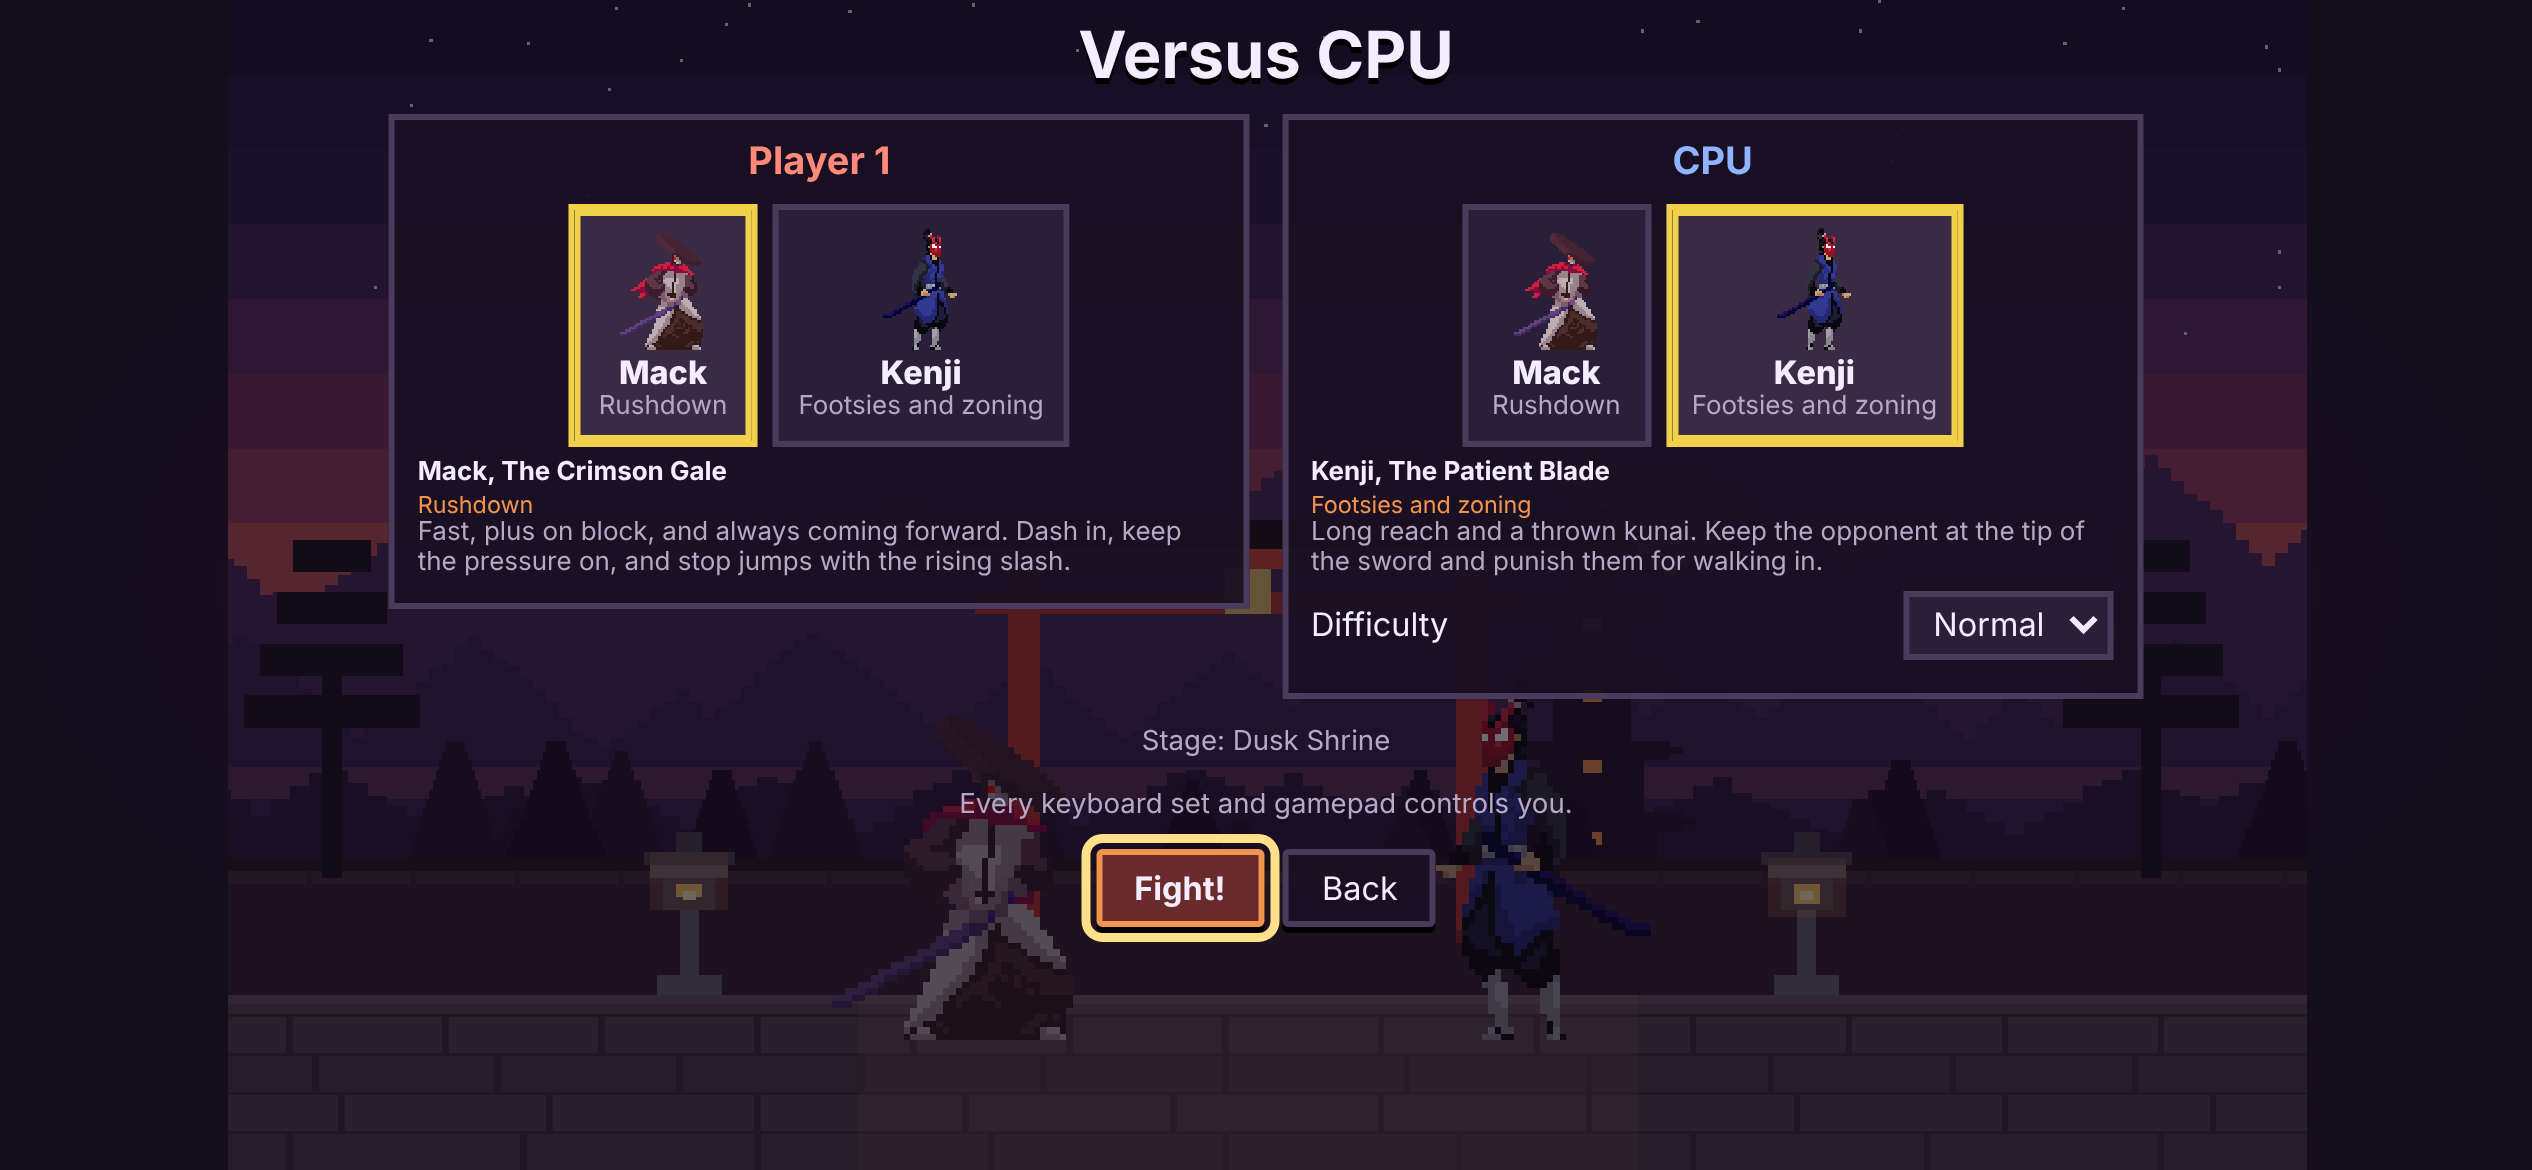
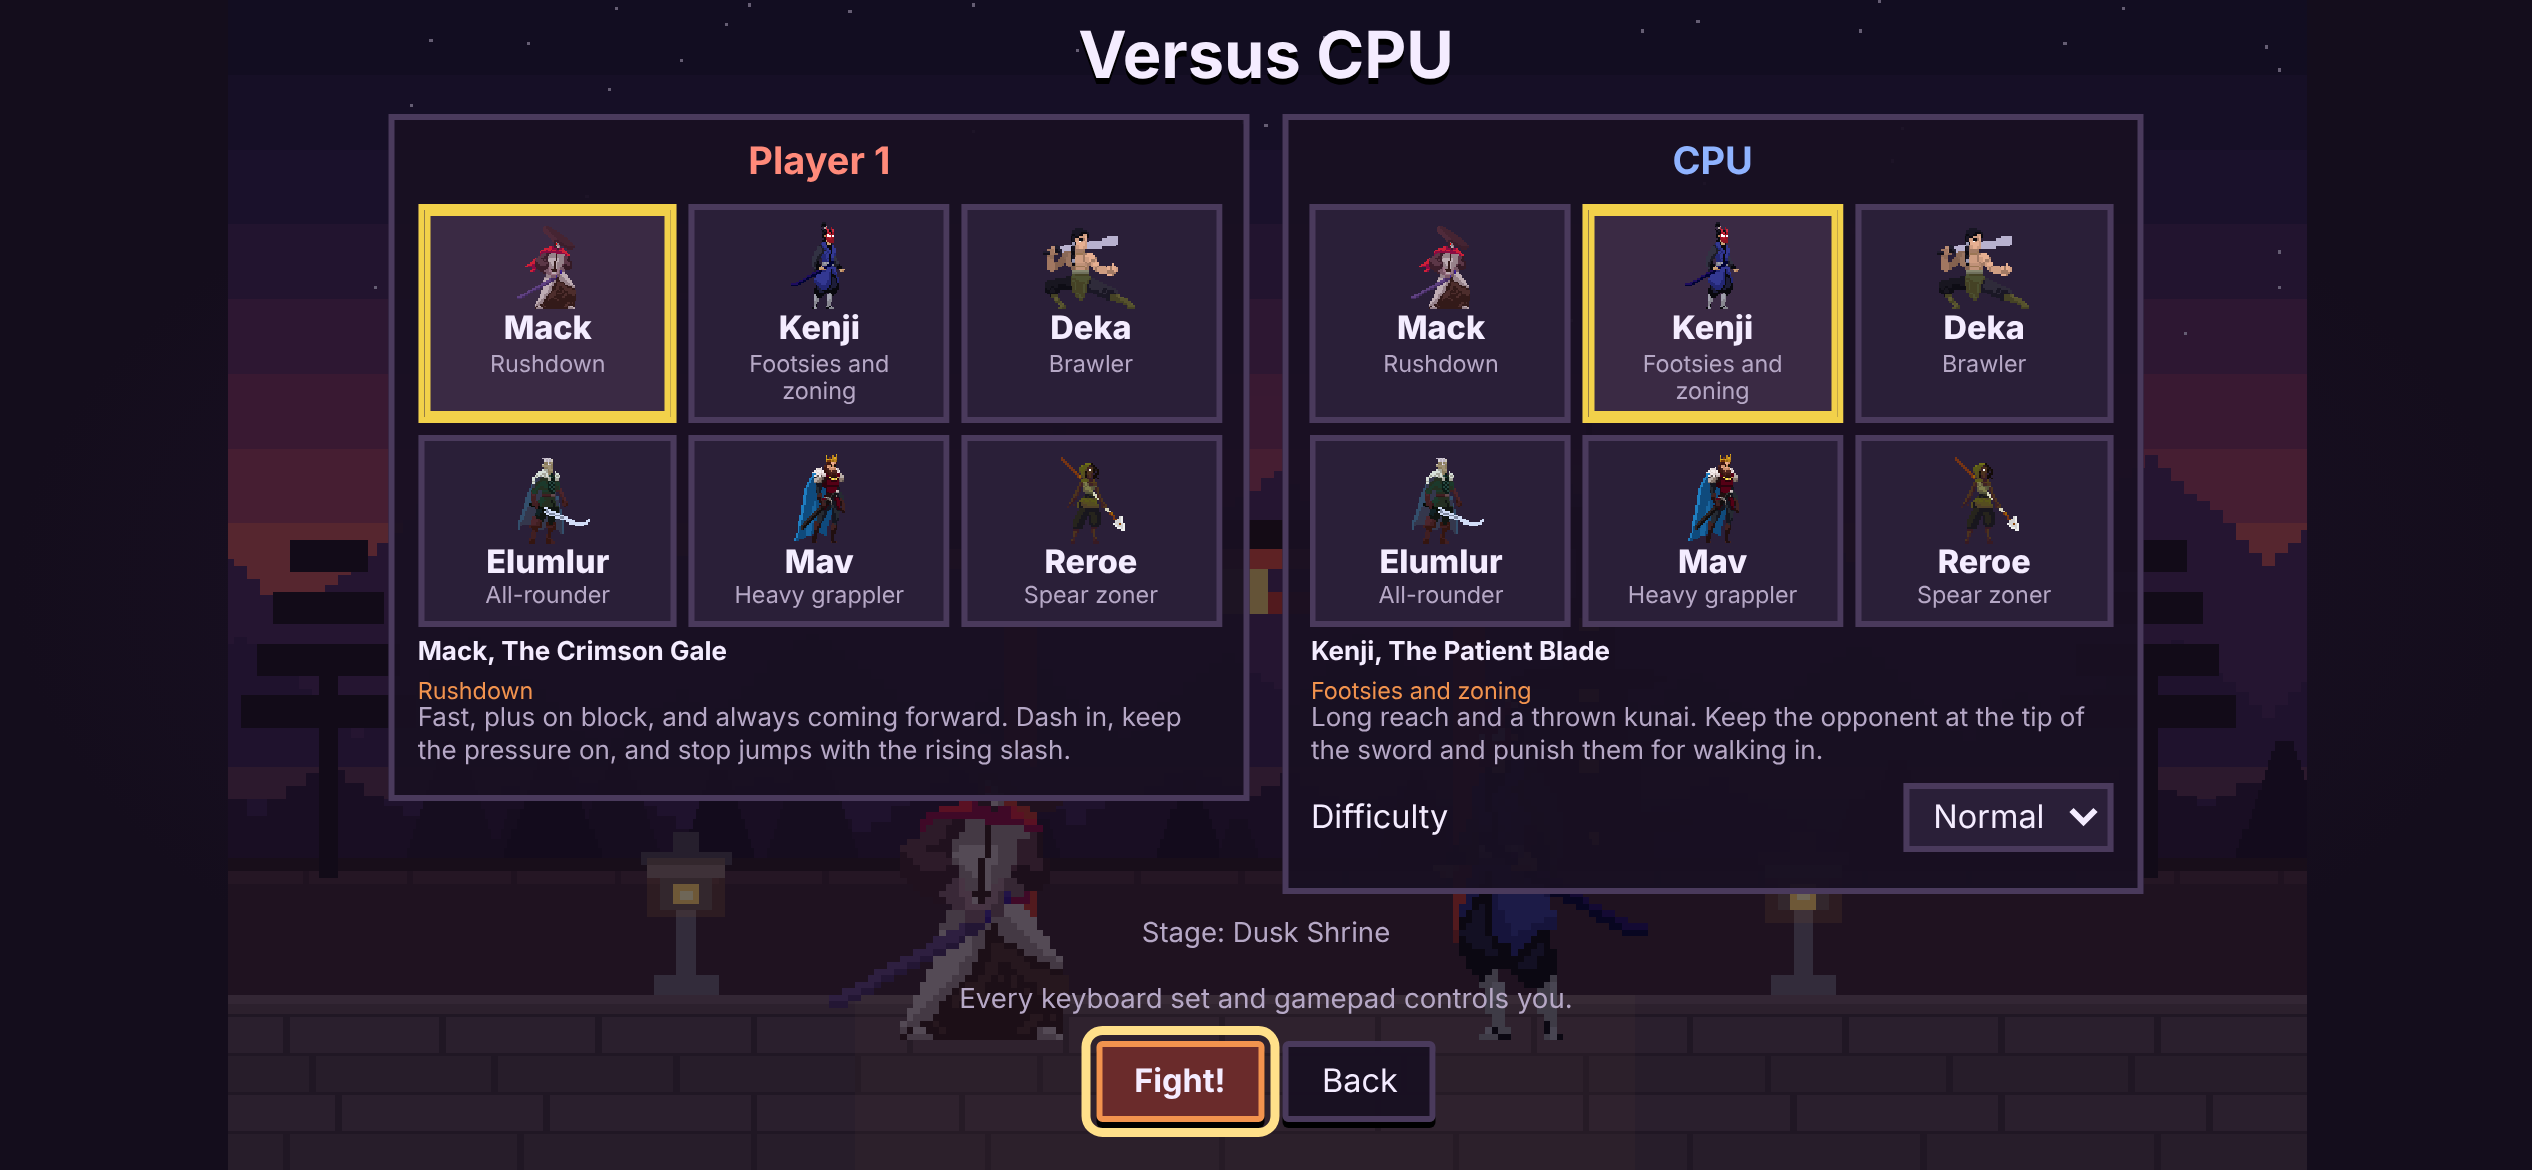
docs: six fighters in the README, frame data and ASSETS.md; select screen fits
- README: the fighters table covers all six; the credits no longer say
  four packs are for characters still being added.
- docs/FRAME-DATA.md: regenerated tables for every character; command
  grabs show no block advantage, like throws (the table tool too).
- ASSETS.md: how `offsets` and `frameShift` correct the new packs' art
  without editing it.
- The select screen's cards are more compact so six fit at 1280×720 and
  on phones without clipping the title or the Fight button.
- Screenshots regenerated.

Claude-Session: https://claude.ai/code/session_0133ci3TEjBPLBP2vctkLhz4

diff --git a/src/style.css b/src/style.css
@@ -140,14 +140,14 @@ button:focus-visible, select:focus-visible, input:focus-visible, .btn:focus {
   align-items: center;
   background: var(--panel-2);
   border: 2px solid var(--line);
-  padding: 0.3em 0.6em 0.5em;
+  padding: 0.2em 0.5em 0.35em;
   cursor: pointer;
 }
 .card[aria-checked="true"] { border-color: var(--accent-2); background: #3a2a44; box-shadow: 0 0 0 2px var(--accent-2) inset; }
-.portrait { width: 3.8em; height: 3.8em; image-rendering: pixelated; }
-.card-name { font-weight: 800; }
-.card-style { font-size: 0.72em; color: var(--muted); }
-.char-info { font-size: 0.9em; color: var(--muted); min-height: 4.5em; margin: 0.5em 0 0; text-align: left; }
+.portrait { width: 3.2em; height: 3.2em; image-rendering: pixelated; }
+.card-name { font-weight: 800; line-height: 1.15; }
+.card-style { font-size: 0.72em; line-height: 1.2; color: var(--muted); }
+.char-info { font-size: 0.85em; line-height: 1.3; color: var(--muted); min-height: 4.5em; margin: 0.5em 0 0; text-align: left; }
 .char-info strong { display: block; color: var(--ink); }
 .char-info .style { display: block; color: var(--accent); font-size: 0.9em; }
 .row { display: flex; align-items: center; gap: 0.6em; justify-content: space-between; margin: 0.35em 0; text-align: left; }
@@ -311,7 +311,7 @@ select { font: inherit; background: var(--panel-2); color: var(--ink); border: 2
 @media (max-width: 700px), (max-height: 420px) {
   .select-grid { grid-template-columns: 1fr 1fr; }
   .vs-mark { display: none; }
-  .portrait { width: 4.2em; height: 4.2em; }
+  .portrait { width: 3em; height: 3em; }
   .char-info { min-height: 0; font-size: 0.8em; }
   .settings, .training-panel { grid-template-columns: 1fr; }
   .screen { justify-content: flex-start; gap: 0.5em; padding: 0.6em; }

diff --git a/src/game/data/characters/reroe.js b/src/game/data/characters/reroe.js
@@ -1,7 +1,7 @@
 /**
  * Reroe, the spear zoner: the longest pokes in the game, a thrown spear,
  * a retreating sweep that pokes while backing away, and a volley of spears
- * for a super. Fast on her feet but the least health: keep the opponent at
+ * for a super. Fast on her feet but tied for the least health: keep the opponent at
  * the end of the spear. Sprites: "Huntress" by Luiz Melo (CC0), drawn
  * facing right; the thrown spear is the pack's own spear art.
  *

diff --git a/docs/FRAME-DATA.md b/docs/FRAME-DATA.md
@@ -244,7 +244,7 @@ them from there.
 trust the formula: after every hit or block, it counts the frames until
 each fighter can act and reports the difference ("P1 5M: +2 on hit").
 [tests/frameData.test.js](../tests/frameData.test.js) does the same for
-every grounded move of both characters, on hit and on block, in the real
+every grounded move of every character, on hit and on block, in the real
 simulation, and fails if measured and derived differ by a single frame.
 Writing that test found two mistakes in the first version of the formula
 (see [section 12](#12-how-the-numbers-are-kept-honest)).
@@ -484,7 +484,8 @@ Startup is the first active frame; advantage assumes the move connects on
 its first active frame (for a multi-hit move, its last hit on that hit's
 first frame). Air attacks' advantage depends on how high they hit, and a
 projectile's on how far it travelled, so they're marked "—". Hit-stop is
-not counted (it freezes both fighters equally).
+not counted (it freezes both fighters equally). Command grabs, like
+throws, can't be blocked, so they have no block advantage.
 
 #### Mack (Rushdown)
 
@@ -531,6 +532,98 @@ not counted (it freezes both fighters equally).
 | `[4]6+M` | Iai Rush (M) | 10 | 4 | 20 | -1 | -7 | 90 | mid |
 | `[4]6+H` | Iai Rush (H) | 11 | 4 | 20 | KD +22 | -7 | 100 | mid |
 | `236236+H` | Tsukiotoshi: Falling Moon | 10 | — | 34 | — | — | 280 | mid |
+
+#### Deka (Brawler)
+
+| Input | Move | Startup | Active | Recovery | On hit | On block | Damage | Guard |
+| --- | --- | --- | --- | --- | --- | --- | --- | --- |
+| `5L` | Short Arc | 6 | 2 | 10 | +3 | ±0 | 35 | mid |
+| `5M` | Crescent Cut | 9 | 3 | 15 | +1 | -3 | 65 | mid |
+| `5H` | Moon Splitter | 13 | 4 | 22 | -3 | -9 | 105 | mid |
+| `2L` | Shin Cut | 6 | 2 | 10 | +2 | -1 | 30 | low |
+| `2M` | Low Crescent | 9 | 3 | 16 | -1 | -5 | 55 | low |
+| `2H` | Rising Moon | 10 | 4 | 25 | KD +49 | -14 | 80 | mid |
+| `6M` | Crashing Moon | 19 | 3 | 14 | +4 | -2 | 75 | high |
+| `j.L` | Air Arc | 5 | 4 | 10 | — | — | 40 | high |
+| `j.M` | Diving Crescent | 7 | 5 | 12 | — | — | 60 | high |
+| `j.H` | Falling Moon | 10 | 4 | 16 | — | — | 90 | high |
+| `L+M (4L+M: back)` | Headbutt Toss | 5 | 2 | 22 | KD +47 | — | 120 | throw |
+| `236+L` | Crescent Rush (L) | 13 | 4 | 19 | -1 | -8 | 85 | mid |
+| `236+M` | Crescent Rush (M) | 13 | 4 | 19 | -1 | -8 | 95 | mid |
+| `236+H` | Crescent Rush (H) | 13 | 4 | 19 | KD +23 | -8 | 110 | mid |
+| `623+L` | Rising Crescent (L) | 6 | 6 | 25 | KD +43 | -14 | 95 | mid |
+| `623+M` | Rising Crescent (M) | 6 | 8 | 27 | KD +41 | -18 | 115 | mid |
+| `623+H` | Rising Crescent (H) | 7 | 8 | 29 | KD +43 | -17 | 140 | mid |
+| `236236+H` | Thousand Crescents | 7 | 16 | 31 | KD +43 | -18 | 325 | mid |
+
+#### Elumlur (All-rounder)
+
+| Input | Move | Startup | Active | Recovery | On hit | On block | Damage | Guard |
+| --- | --- | --- | --- | --- | --- | --- | --- | --- |
+| `5L` | Spark Cut | 5 | 2 | 10 | +3 | ±0 | 32 | mid |
+| `5M` | Arc Slash | 9 | 3 | 15 | +1 | -3 | 64 | mid |
+| `5H` | Cyclone Edge | 12 | 4 | 21 | -2 | -8 | 95 | mid |
+| `2L` | Low Spark | 5 | 2 | 10 | +2 | -1 | 27 | low |
+| `2M` | Ground Current | 9 | 3 | 16 | -1 | -5 | 50 | low |
+| `2H` | Updraft | 9 | 4 | 24 | KD +50 | -13 | 72 | mid |
+| `6M` | Thunderclap | 18 | 3 | 14 | +4 | -2 | 62 | high |
+| `j.L` | Air Spark | 5 | 4 | 10 | — | — | 35 | high |
+| `j.M` | Gale Turn | 7 | 5 | 12 | — | — | 55 | high |
+| `j.H` | Falling Storm | 10 | 4 | 16 | — | — | 82 | high |
+| `L+M (4L+M: back)` | Storm Grip | 5 | 2 | 22 | KD +47 | — | 110 | throw |
+| `236+L` | Storm Wave (L) | 14 | — | 26 | — | — | 70 | mid |
+| `236+M` | Storm Wave (M) | 14 | — | 26 | — | — | 70 | mid |
+| `236+H` | Storm Wave (H) | 14 | — | 26 | — | — | 70 | mid |
+| `623+L` | Thunder Rise (L) | 5 | 6 | 24 | KD +44 | -13 | 85 | mid |
+| `623+M` | Thunder Rise (M) | 5 | 8 | 26 | KD +42 | -17 | 105 | mid |
+| `623+H` | Thunder Rise (H) | 6 | 8 | 28 | KD +44 | -16 | 125 | mid |
+| `236236+H` | Storm Arc | 8 | 18 | 30 | KD +49 | -16 | 300 | mid |
+
+#### Mav (Heavy grappler)
+
+| Input | Move | Startup | Active | Recovery | On hit | On block | Damage | Guard |
+| --- | --- | --- | --- | --- | --- | --- | --- | --- |
+| `5L` | Pommel Strike | 7 | 2 | 11 | +3 | -1 | 40 | mid |
+| `5M` | Kingsguard Sweep | 11 | 3 | 17 | ±0 | -5 | 75 | mid |
+| `5H` | Sovereign’s Arc | 15 | 4 | 24 | -4 | -10 | 110 | mid |
+| `2L` | Low Pommel | 7 | 2 | 11 | +2 | -2 | 35 | low |
+| `2M` | Royal Reap | 11 | 3 | 18 | -2 | -7 | 65 | low |
+| `2H` | Rising Crown | 11 | 4 | 27 | KD +47 | -16 | 90 | mid |
+| `6M` | Royal Chop | 21 | 3 | 15 | +3 | -3 | 90 | high |
+| `j.L` | Air Pommel | 6 | 4 | 11 | — | — | 45 | high |
+| `j.M` | Descending Sweep | 8 | 5 | 13 | — | — | 65 | high |
+| `j.H` | Throne Breaker | 11 | 4 | 17 | — | — | 100 | high |
+| `L+M (4L+M: back)` | Royal Toss | 5 | 2 | 22 | KD +47 | — | 125 | throw |
+| `214+L` | Royal Decree (L) | 8 | 2 | 34 | KD +47 | — | 120 | throw |
+| `214+M` | Royal Decree (M) | 9 | 2 | 34 | KD +47 | — | 130 | throw |
+| `214+H` | Royal Decree (H) | 10 | 2 | 34 | KD +47 | — | 140 | throw |
+| `236+L` | Crown Cleave (L) | 14 | 4 | 22 | -3 | -10 | 90 | mid |
+| `236+M` | Crown Cleave (M) | 15 | 4 | 22 | -3 | -10 | 100 | mid |
+| `236+H` | Crown Cleave (H) | 16 | 4 | 22 | KD +20 | -10 | 115 | mid |
+| `236236+H` | Regicide | 9 | 14 | 32 | KD +42 | -19 | 320 | mid |
+
+#### Reroe (Spear zoner)
+
+| Input | Move | Startup | Active | Recovery | On hit | On block | Damage | Guard |
+| --- | --- | --- | --- | --- | --- | --- | --- | --- |
+| `5L` | Quick Jab | 6 | 2 | 10 | +3 | ±0 | 28 | mid |
+| `5M` | Long Thrust | 10 | 3 | 15 | +1 | -3 | 62 | mid |
+| `5H` | Hunter’s Arc | 13 | 4 | 22 | -3 | -9 | 85 | mid |
+| `2L` | Low Jab | 6 | 2 | 10 | +2 | -1 | 24 | low |
+| `2M` | Ground Thrust | 10 | 3 | 16 | -1 | -5 | 54 | low |
+| `2H` | Skyward Spear | 9 | 4 | 24 | KD +50 | -13 | 66 | mid |
+| `6M` | Falling Spear | 18 | 3 | 14 | +4 | -2 | 55 | high |
+| `j.L` | Air Jab | 5 | 4 | 10 | — | — | 32 | high |
+| `j.M` | Diving Sweep | 7 | 5 | 12 | — | — | 50 | high |
+| `j.H` | Plunging Spear | 10 | 4 | 16 | — | — | 75 | high |
+| `L+M (4L+M: back)` | Hunter’s Trip | 5 | 2 | 22 | KD +47 | — | 100 | throw |
+| `236+L` | Hunting Spear (L) | 15 | — | 27 | — | — | 75 | mid |
+| `236+M` | Hunting Spear (M) | 15 | — | 27 | — | — | 75 | mid |
+| `236+H` | Hunting Spear (H) | 15 | — | 27 | — | — | 75 | mid |
+| `214+L` | Fading Sweep (L) | 10 | 3 | 18 | -1 | -5 | 60 | mid |
+| `214+M` | Fading Sweep (M) | 10 | 3 | 18 | -1 | -5 | 65 | mid |
+| `214+H` | Fading Sweep (H) | 10 | 3 | 18 | -1 | -5 | 70 | mid |
+| `236236+H` | Hunter’s Volley | 11 | — | 34 | — | — | 280 | mid |
 
 The supers' damage is before scaling; Kazekiri's five hits are scaled as a
 combo (330 listed, 253 dealt from a clean start).

diff --git a/README.md b/README.md
@@ -8,7 +8,7 @@ fighting games are actually built:
 - an **input buffer with motion inputs**;
 - a real **training mode** that shows all of it.
 
-Two samurai, a CPU opponent, local versus, **online play** (peer to peer
+Six fighters, a CPU opponent, local versus, **online play** (peer to peer
 over WebRTC), **replays**, and touch controls for phones. It's plain
 JavaScript on a canvas.
 
@@ -193,11 +193,14 @@ diagrams.
 The lab's overlays never rely on colour alone: wrong guesses are marked,
 guesses not yet confirmed are hollow, and stalls are full height.
 
-| | Mack, the Crimson Gale | Kenji, the Patient Blade |
-| --- | --- | --- |
-| Style | Rushdown: fast buttons, plus on block | Footsies and zoning: long reach, a thrown kunai |
-| Specials | Shippū (236 + attack): a dashing slash. Tenkū (623 + attack): an invincible rising slash | Kunai (236 + attack). Iai Rush ([4]6 + attack): a charge dash-thrust |
-| Super (full meter) | 236236 + H: a five-hit rush | 236236 + H: a crescent that crosses the screen |
+| Fighter | Style | Specials | Super (full meter, 236236 + H) |
+| --- | --- | --- | --- |
+| **Mack**, the Crimson Gale | Rushdown: fast buttons, plus on block | Shippū (236 + attack): a dashing slash. Tenkū (623 + attack): an invincible rising slash | A five-hit rush |
+| **Kenji**, the Patient Blade | Footsies and zoning: long reach, a thrown kunai | Kunai (236 + attack). Iai Rush ([4]6 + attack): a charge dash-thrust | A crescent that crosses the screen |
+| **Deka**, the Wild Crescent | Brawler: slow, wide slashes that hit hardest | Crescent Rush (236 + attack): a lunging sweep. Rising Crescent (623 + attack): an invincible rising slash | Four crescents in a rush |
+| **Elumlur**, the Storm Blade | All-rounder: a projectile, reach and an anti-air | Storm Wave (236 + attack): a projectile. Thunder Rise (623 + attack): an invincible rising slash | Four lightning arcs all around him |
+| **Mav**, the Iron King | Heavy grappler: slow, the most health | Royal Decree (214 + attack): a command grab that can't be escaped. Crown Cleave (236 + attack): a stepping cleave | Three royal strikes |
+| **Reroe**, the Huntress | Spear zoner: the longest reach, quick feet | Hunting Spear (236 + attack): a thrown spear. Fading Sweep (214 + attack): a poke that hops back | A huge spear that hits four times |
 
 ## Architecture
 
@@ -448,8 +451,7 @@ visitor after that waits about a minute (the lobby says so).
 - **Pixel art / character assets by Luiz Melo**: "Martial Hero",
   "Martial Hero 2", "Martial Hero 3", "Fantasy Warrior", "Medieval King
   Pack 2" and "Huntress" (CC0), <https://luizmelo.itch.io/>. The licence
-  doesn't require credit; it's given with thanks. (The last four are for
-  characters still being added.)
+  doesn't require credit; it's given with thanks.
 - **Game, engine, netcode, stage and synthesised sound:** Robert Bagwell,
   with Claude.
 - **Music:** Robert's own, when added ([docs/AUDIO.md](docs/AUDIO.md)).

diff --git a/ASSETS.md b/ASSETS.md
@@ -89,6 +89,16 @@ All four are drawn facing right. Their frames are smaller than Mack and
 Kenji's 200×200, and Medieval King's are not square (160×111); the game
 scales each character to the same height on screen.
 
+The packs draw some animations higher or lower in the frame than others,
+and some frames step the body sideways (a lunge drawn inside the frame
+rather than as movement). The art is not edited to fix this; each
+character's `sprites` data corrects it when drawing. `offsets` moves a
+whole sheet (Deka's jump and fall are drawn 14 pixels lower in their
+frames than the rest of the pack), and `frameShift` moves single frames
+sideways, measured so the feet stay over the fighter's position.
+tests/characters.test.js checks every correction names a real sheet and
+frame.
+
 ### Martial Hero 3 (https://luizmelo.itch.io/martial-hero-3): `public/sprites/deka/`, frames 126×126
 
 | File | What | Source | Licence | Status |
